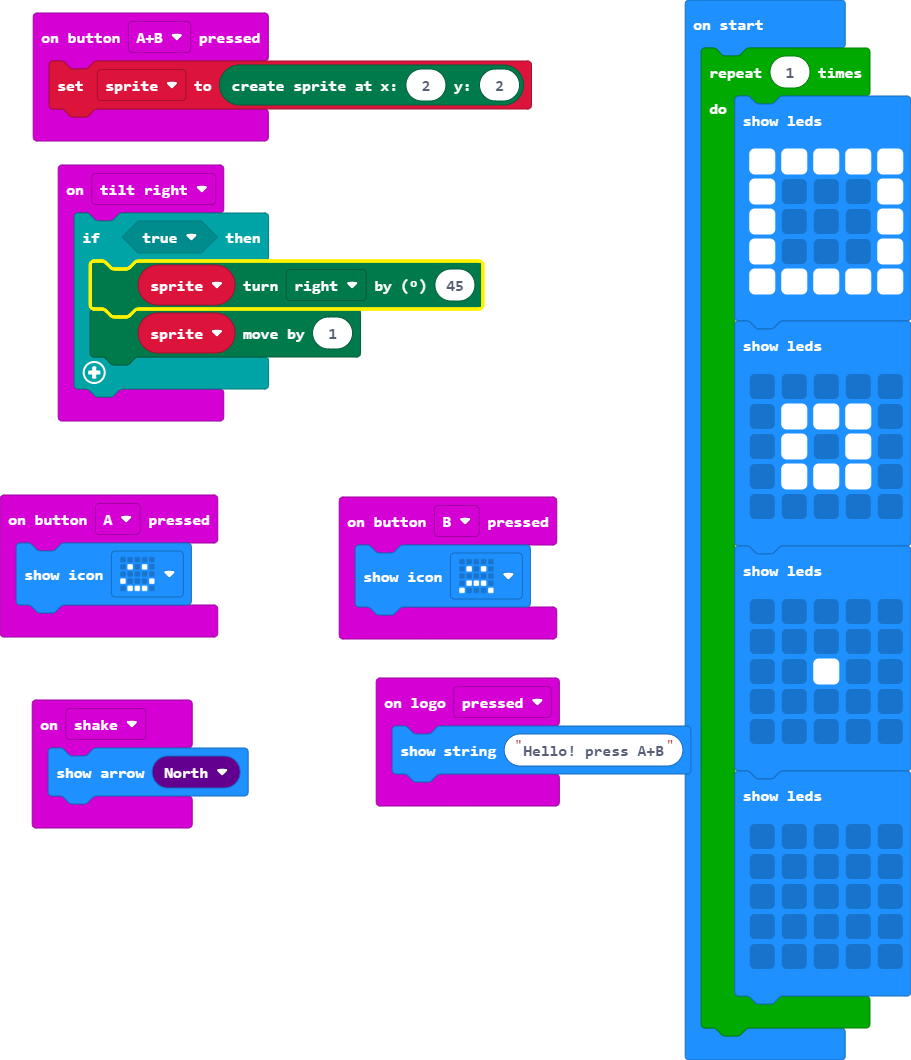
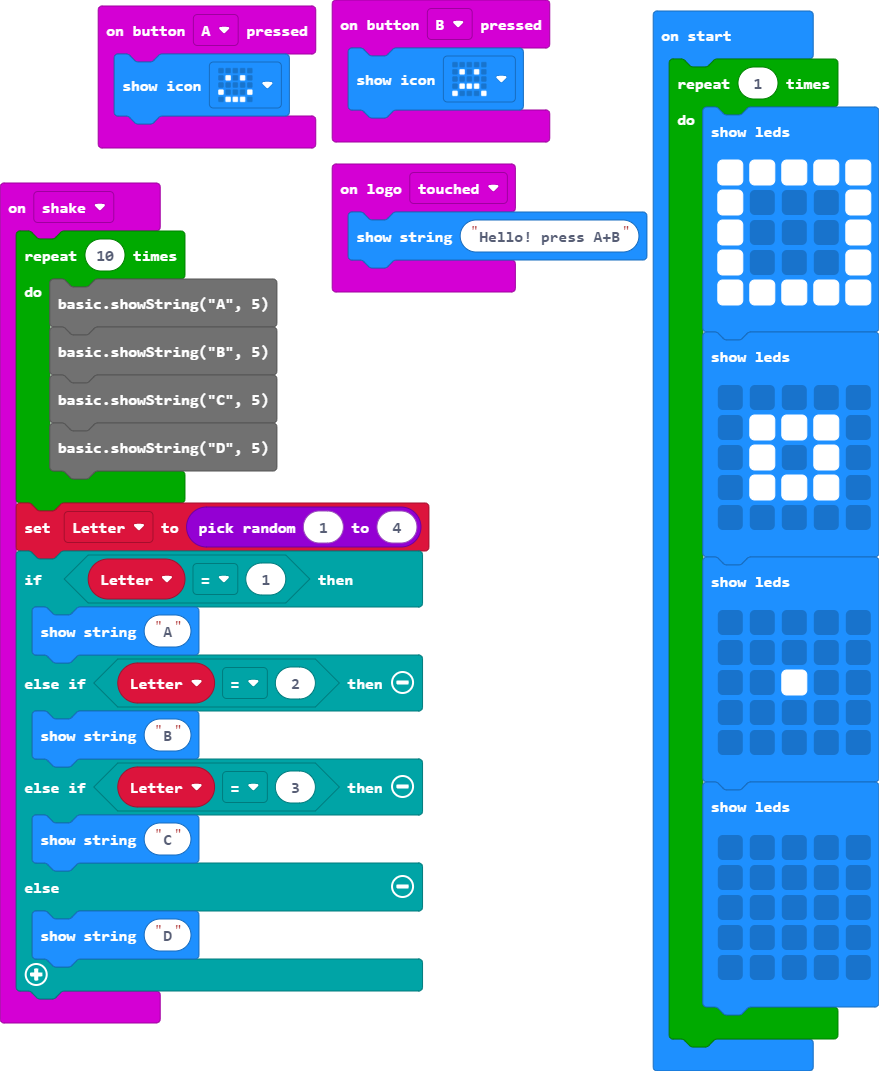
Update main.blocks, main.ts

diff --git a/main.ts b/main.ts
@@ -1,25 +1,31 @@
 input.onButtonPressed(Button.A, function () {
     basic.showIcon(IconNames.Happy)
 })
-input.onButtonPressed(Button.AB, function () {
-    sprite = game.createSprite(2, 2)
-})
 input.onButtonPressed(Button.B, function () {
     basic.showIcon(IconNames.Sad)
 })
 input.onGesture(Gesture.Shake, function () {
-    basic.showArrow(ArrowNames.North)
-})
-input.onGesture(Gesture.TiltRight, function () {
-    if (true) {
-        sprite.turn(Direction.Right, 45)
-        sprite.move(1)
+    for (let index = 0; index < 10; index++) {
+        basic.showString("A", 5)
+basic.showString("B", 5)
+basic.showString("C", 5)
+basic.showString("D", 5)
+    }
+    Letter = randint(1, 4)
+    if (Letter == 1) {
+        basic.showString("A")
+    } else if (Letter == 2) {
+        basic.showString("B")
+    } else if (Letter == 3) {
+        basic.showString("C")
+    } else {
+        basic.showString("D")
     }
 })
-input.onLogoEvent(TouchButtonEvent.Pressed, function () {
+input.onLogoEvent(TouchButtonEvent.Touched, function () {
     basic.showString("Hello! press A+B")
 })
-let sprite: game.LedSprite = null
+let Letter = 0
 for (let index = 0; index < 1; index++) {
     basic.showLeds(`
         # # # # #
